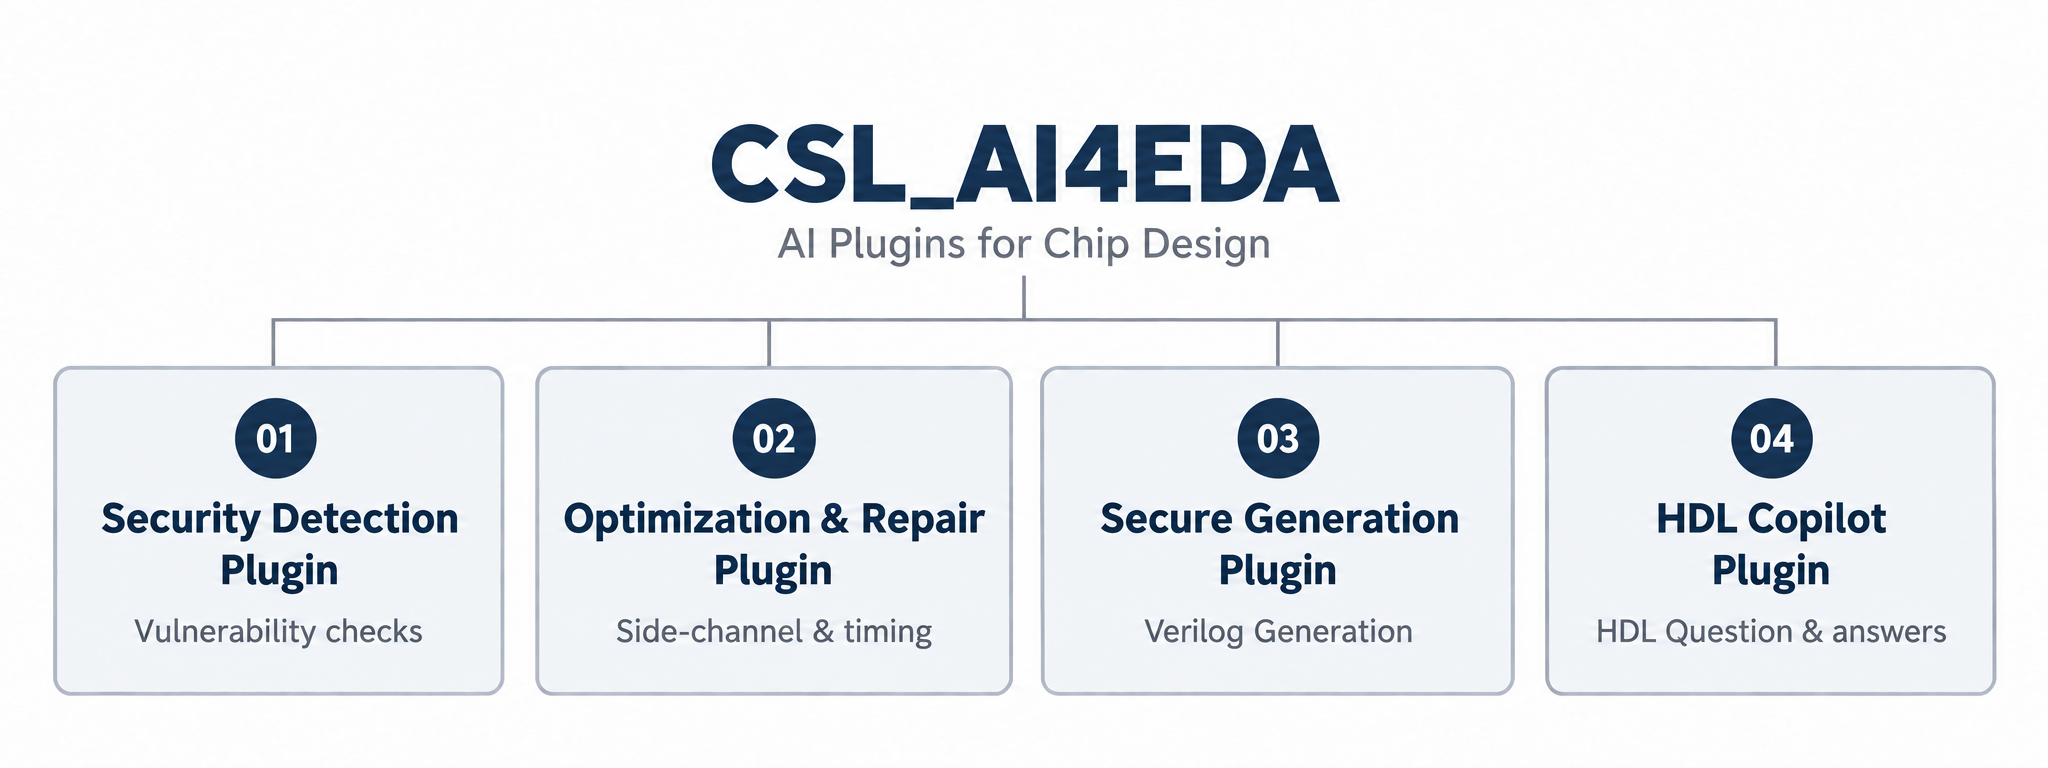
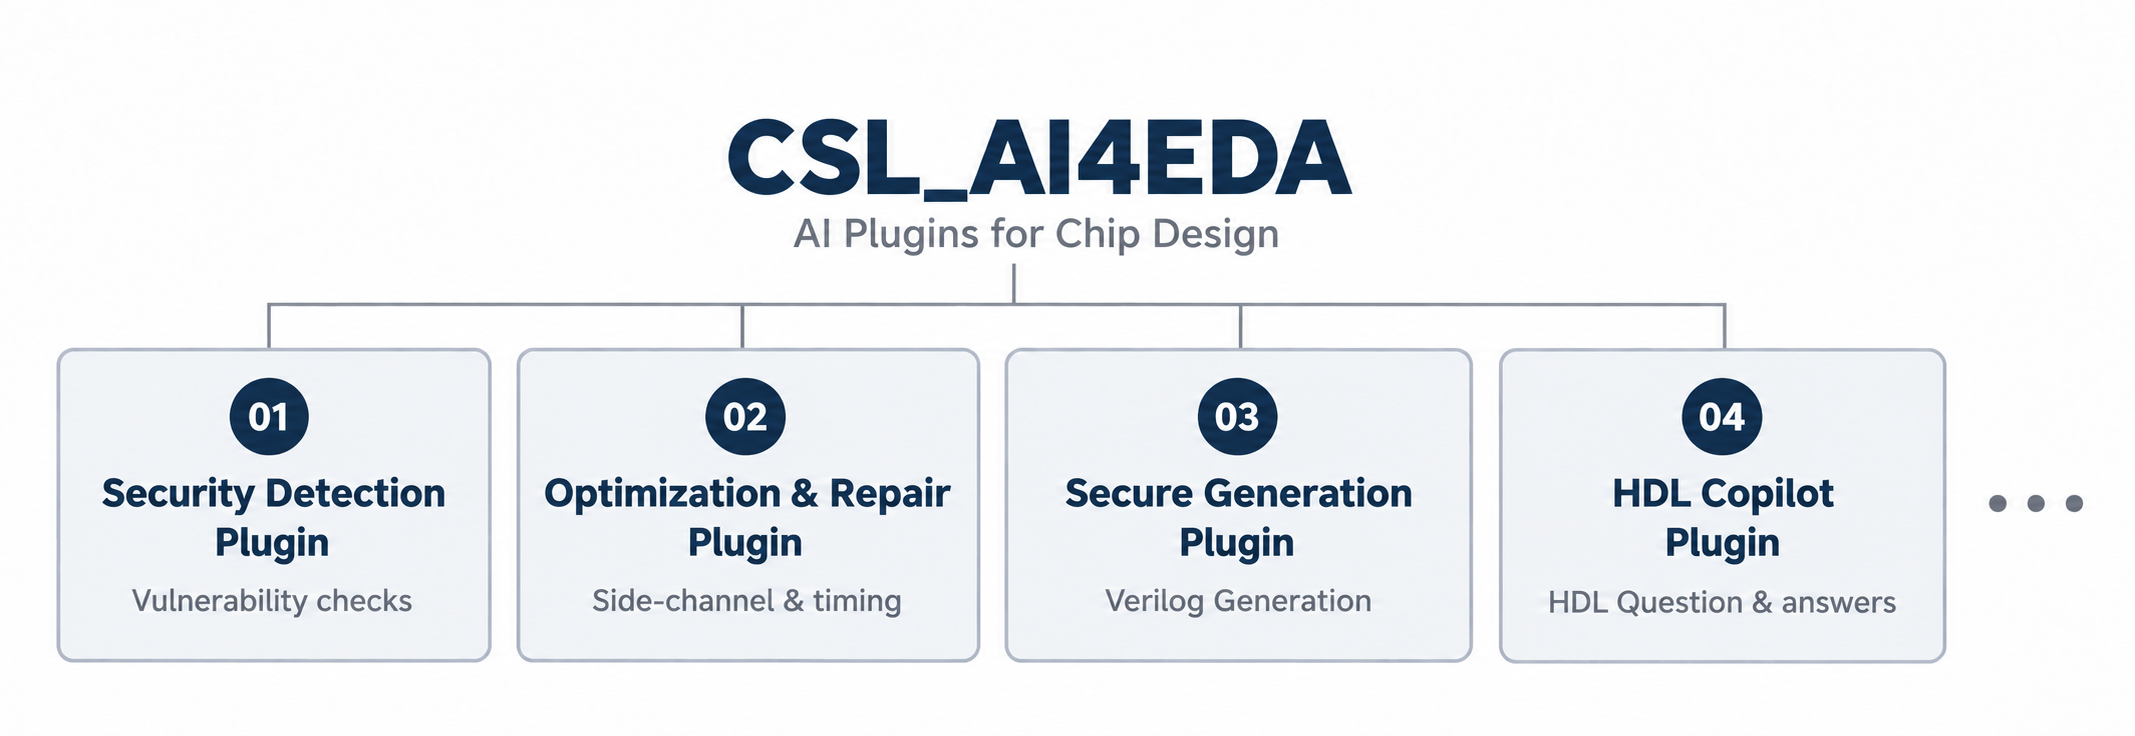
Indicate more plugins and remove Issues feedback sentence

Changed region(s): [[0.0312, 0.375, 1.0, 0.9062], [0.3438, 0.1562, 0.6562, 0.3438]]

diff --git a/README.md b/README.md
@@ -8,7 +8,7 @@
 
 [Plugin Overview](#plugins) · [User Guide](docs/USER_GUIDE.md) · [Framework](docs/ARCHITECTURE.md)
 
-<img src="assets/overview-plugins-minimal.en.png" alt="CSL_AI4EDA plugin overview: Security Detection, Optimization and Repair, Secure Generation, and HDL Copilot." width="1200">
+<img src="assets/overview-plugins-minimal.en.png" alt="CSL_AI4EDA plugin overview: Security Detection, Optimization and Repair, Secure Generation, and HDL Copilot, followed by an ellipsis for additional plugins in development." width="1200">
 
 </div>
 
@@ -62,8 +62,6 @@ CSL-AI4EDA/
 - [User guide](docs/USER_GUIDE.md) / [中文使用说明](docs/USER_GUIDE.zh-CN.md)
 - [Framework and plugin interfaces](docs/ARCHITECTURE.md)
 - [Plugin directory](plugins/README.md)
-
-Questions and documentation feedback can be submitted through this repository's [Issues](https://github.com/Chip-Security-Lab/CSL-AI4EDA/issues).
 
 ## Contact
 

diff --git a/README.zh-CN.md b/README.zh-CN.md
@@ -8,7 +8,7 @@
 
 [插件概览](#插件概览) · [使用说明](docs/USER_GUIDE.zh-CN.md) · [框架说明](docs/ARCHITECTURE.md)
 
-<img src="assets/overview-plugins-minimal.en.png" alt="CSL_AI4EDA 按漏洞检查、优化、生成、问答顺序展示四类插件。" width="1200">
+<img src="assets/overview-plugins-minimal.en.png" alt="CSL_AI4EDA 按漏洞检查、优化、生成、问答顺序展示四类插件，末尾省略号表示还有新插件在开发。" width="1200">
 
 </div>
 
@@ -57,8 +57,6 @@ CSL-AI4EDA/
 - [中文使用说明](docs/USER_GUIDE.zh-CN.md) / [English user guide](docs/USER_GUIDE.md)
 - [框架与插件接口说明](docs/ARCHITECTURE.md)
 - [插件目录](plugins/README.md)
-
-问题和文档建议可通过仓库的 [Issues](https://github.com/Chip-Security-Lab/CSL-AI4EDA/issues) 反馈。
 
 ## 联系我们
 

diff --git a/assets/README.md b/assets/README.md
@@ -4,7 +4,7 @@
 
 [overview-plugins-minimal.en.png](overview-plugins-minimal.en.png) is the English overview for CSL_AI4EDA. It uses a white background, restrained gray and blue accents, and short labels.
 
-The plugin order is Security Detection, Optimization & Repair, Secure Generation, then HDL Copilot. The illustration was created with the built-in image generation tool and checked for labels and order.
+The plugin order is Security Detection, Optimization & Repair, Secure Generation, then HDL Copilot. A trailing ellipsis indicates additional plugins in development. The illustration was created with the built-in image generation tool and checked for labels and order.
 
 ## Lab identity
 
